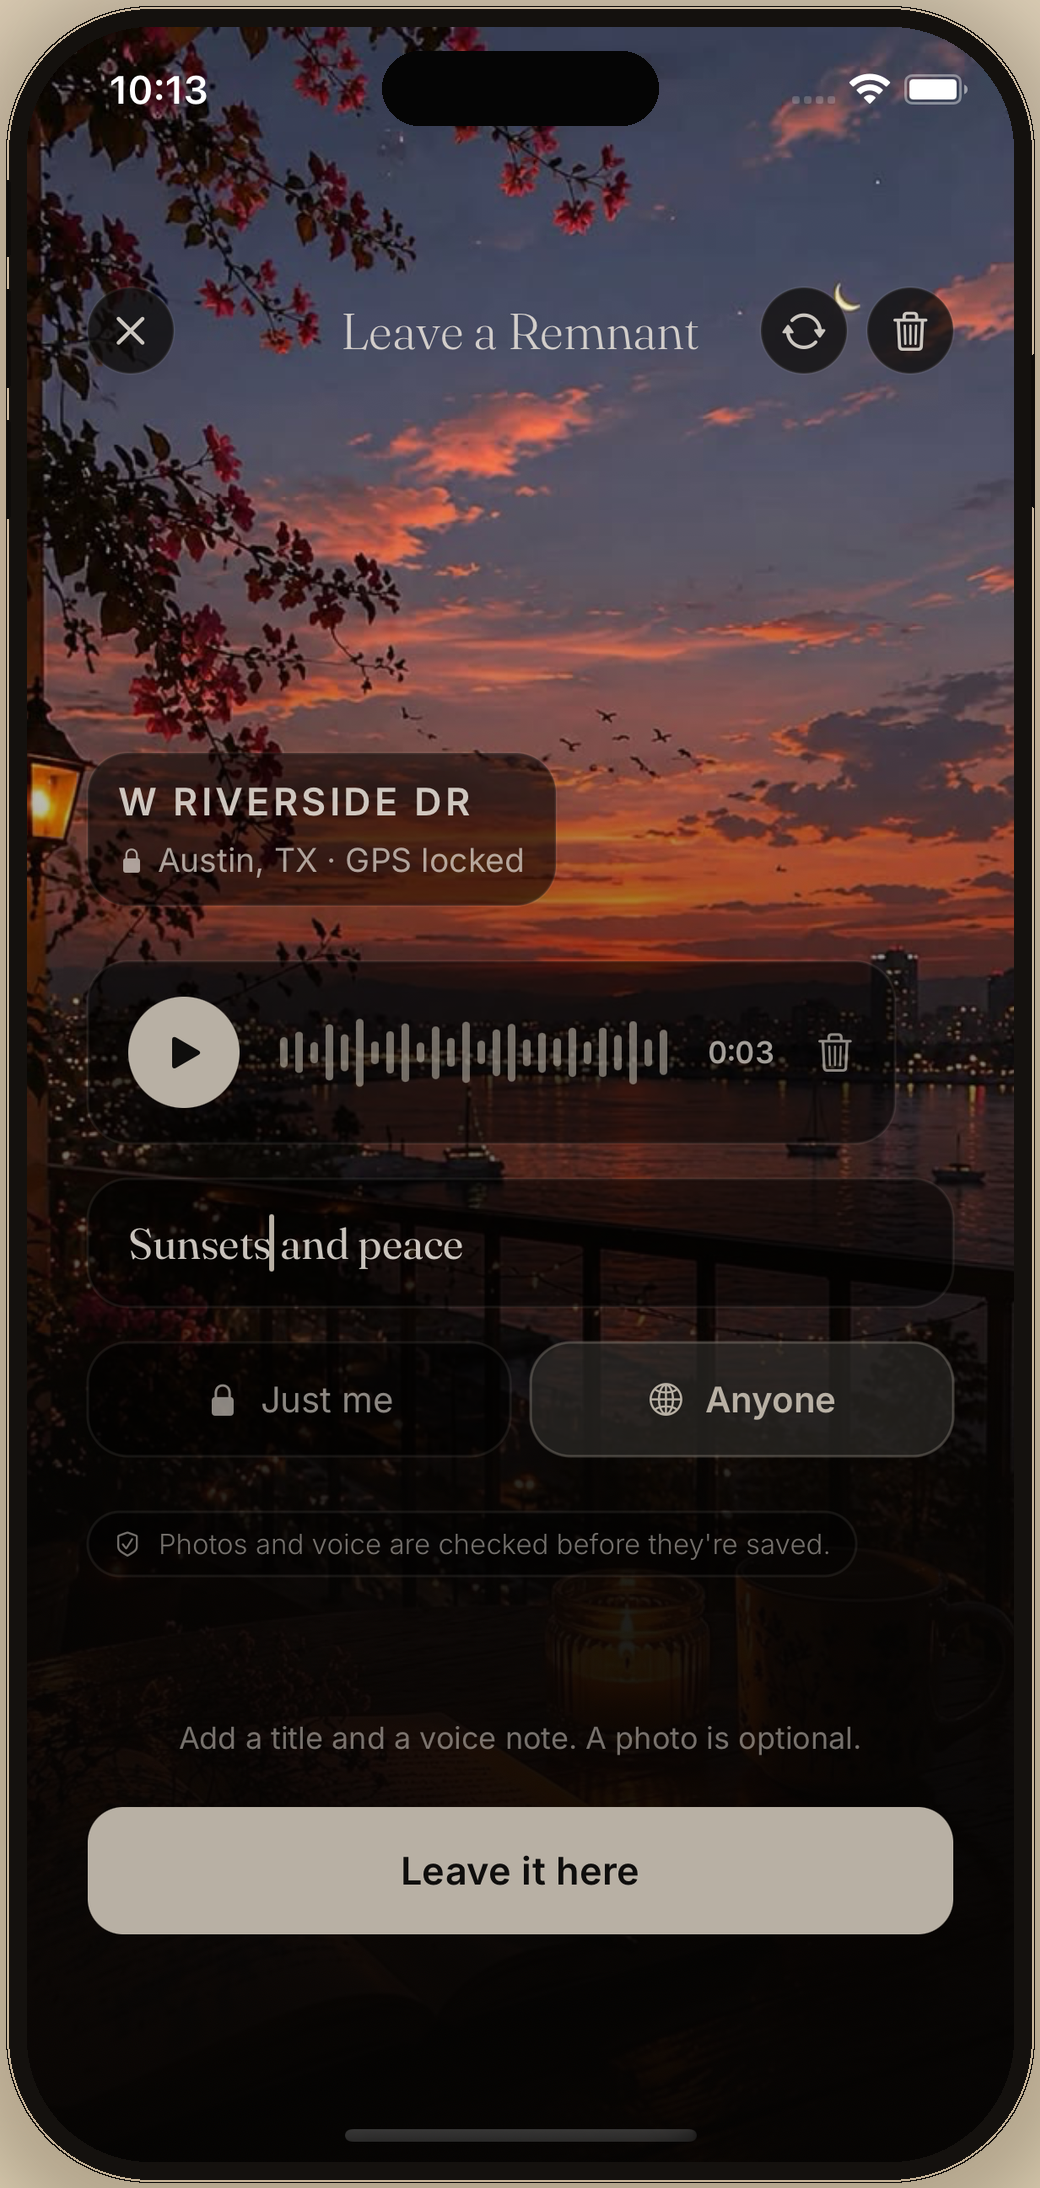
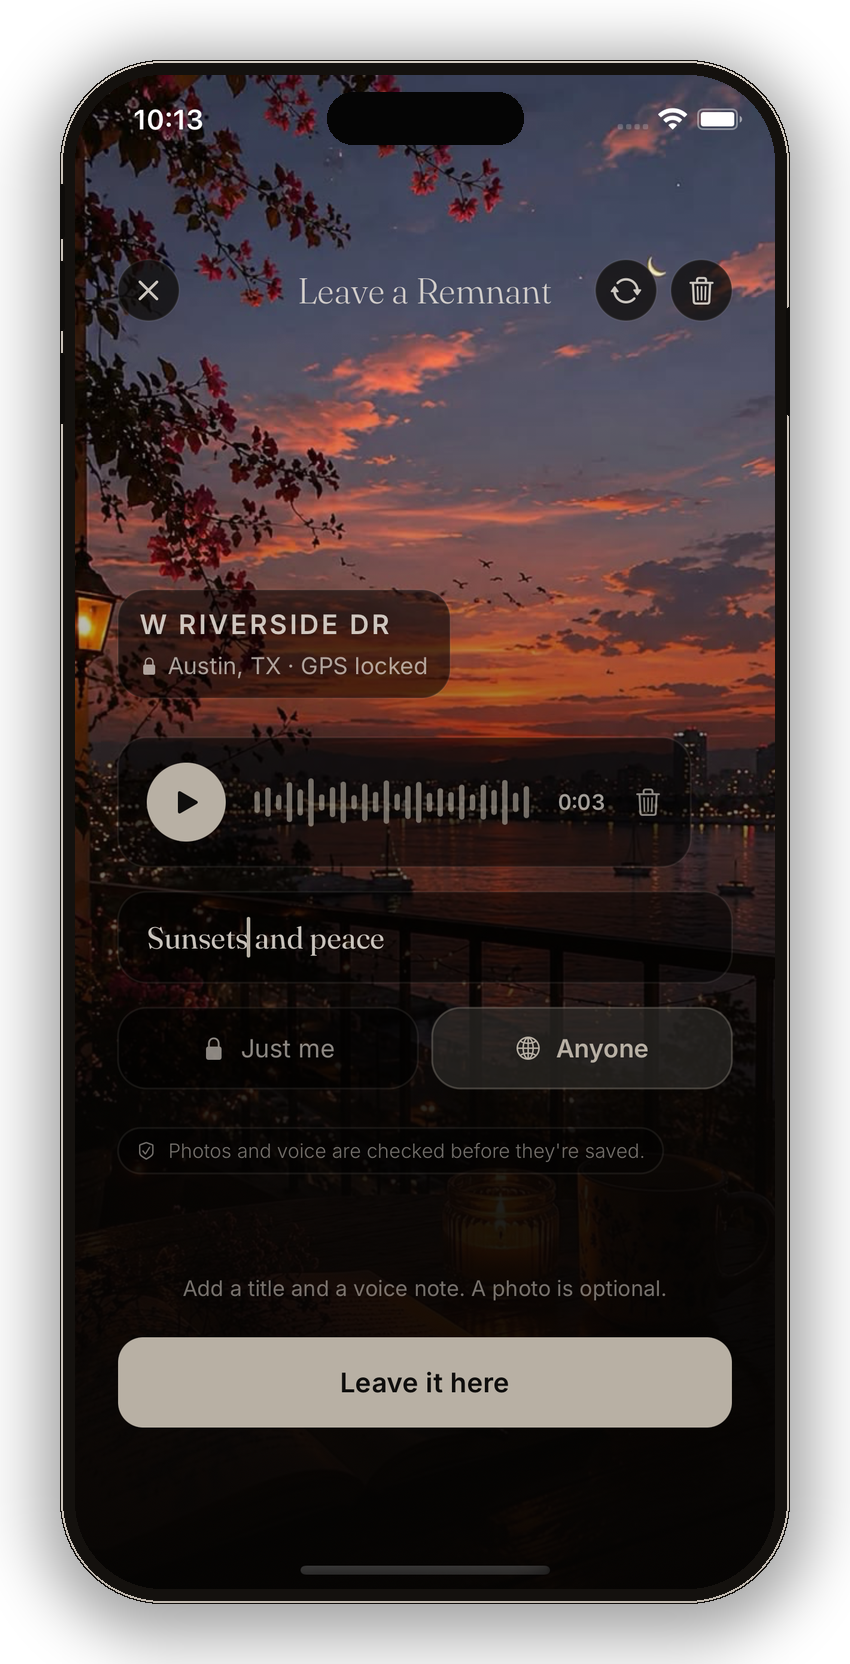
Update background texture and hero/step imagery
- New bg-texture.jpg, plus a darkening gradient layered over it so
  foreground text stays legible
- .btn-primary switches from ember to cream (matches the new mockups)
- hero-compose.png and step images updated to transparent-background
  phone cutouts; dropped the card-style border-radius/shadow that
  doesn't apply to them anymore

diff --git a/styles.css b/styles.css
@@ -18,7 +18,10 @@ html { scroll-behavior: smooth; }
 
 body {
   margin: 0;
-  background: var(--ink) url('assets/bg-texture.jpg') center top / cover no-repeat fixed;
+  background:
+    linear-gradient(rgba(20,16,12,0.4), rgba(20,16,12,0.6)) center top / cover no-repeat fixed,
+    url('assets/bg-texture.jpg') center top / cover no-repeat fixed,
+    var(--ink);
   color: var(--cream);
   font-family: 'Plus Jakarta Sans', -apple-system, sans-serif;
   font-size: 17px;
@@ -104,10 +107,10 @@ img { max-width: 100%; display: block; }
   white-space: nowrap;
 }
 .btn-primary {
-  background: var(--ember);
+  background: var(--cream);
   color: #1a1310;
 }
-.btn-primary:hover { background: #c68e7e; }
+.btn-primary:hover { background: #ffffff; }
 .btn-ghost {
   background: transparent;
   color: var(--cream-dim);
@@ -164,8 +167,6 @@ img { max-width: 100%; display: block; }
   width: auto;
   height: auto;
   max-height: 500px;
-  border-radius: 8px;
-  filter: drop-shadow(0 30px 55px rgba(0,0,0,0.5));
 }
 .hero-visual .phone-a {
   z-index: 3;
@@ -216,8 +217,6 @@ img { max-width: 100%; display: block; }
   max-width: 100%;
   max-height: 420px;
   margin: 0 auto;
-  border-radius: 22px;
-  box-shadow: 0 24px 50px rgba(0,0,0,0.45);
 }
 .how-item h3 {
   font-size: 20px;
